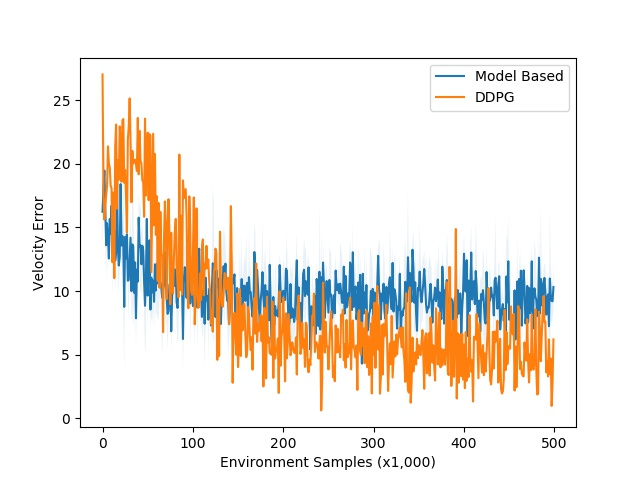
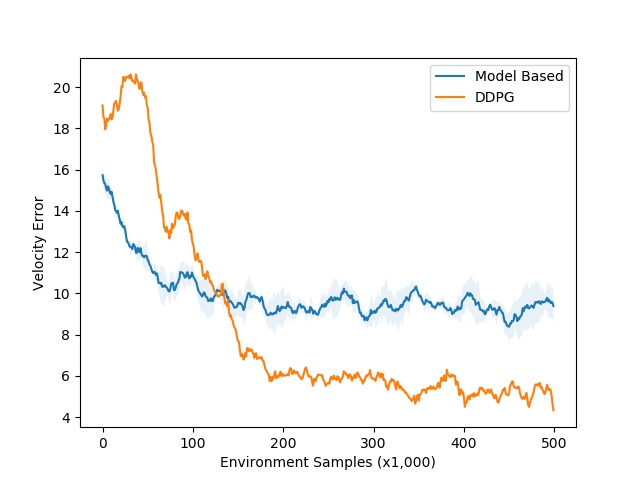
new cheetah xpos results

diff --git a/experiments/state_distance/iclr2018/cheetah_xpos_results.py b/experiments/state_distance/iclr2018/cheetah_xpos_results.py
@@ -2,6 +2,8 @@ from railrl.misc.data_processing import Experiment
 import matplotlib.pyplot as plt
 import numpy as np
 
+from railrl.misc.visualization_util import sliding_mean
+
 mb_trials = Experiment(
     "/home/vitchyr/git/railrl/data/doodads3/12-30-cheetah-xpos-increase-distance/",
     criteria={
@@ -36,6 +38,7 @@ for trials, name, key in [
         except:
             import ipdb; ipdb.set_trace()
         min_len = min(min_len, len(values_ts))
+        values_ts = sliding_mean(values_ts, window=10)
         all_values.append(values_ts)
     costs = np.vstack([
         values[:min_len]
